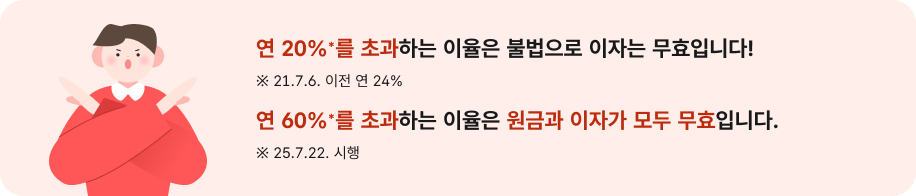
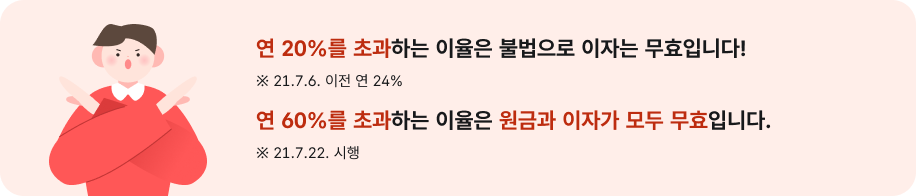
수정사항 반영

Changed region(s): [[0.3362, 0.551, 0.8559, 0.6735], [0.3362, 0.1837, 0.8253, 0.3061], [0.3057, 0.7653, 0.3362, 0.7959]]

diff --git a/html/상담안내_특례.html b/html/상담안내_특례.html
@@ -121,7 +121,7 @@
                         <div class="content-sections g-wrap call-wrap">
 
                             <div class="page-description bgBlue" style="flex-direction: row;flex-wrap: nowrap;">
-                                <p class="w-full" style="text-align: left;font-size: 19px;"><span class="fBlue">신용회복위원회는 과중한 채무와 신용문제로 고통받는 채무자의 신용회복과 경제적 재기를 지원합니다.</span><br>전국 50개 서민금융통합지원센터를 통하여 맞춤형 서비스를 편리하게 제공합니다.</p>
+                                <p class="w-full" style="text-align: left;font-size: 19px;"><span class="fBlue">신용회복위원회는 과중한 채무와 신용문제로 고통받는 채무자의 신용회복과 경제적 재기를 지원합니다.</span><br>전국 서민금융통합지원센터에서 맞춤형 서비스를 편리하게 제공합니다.</p>
                                 <a href="https://svc.onebite.tech/branchInfo.do" target="_blank" title="새창열림" style="font-size: 15px;line-height: 17px;" class="orange-link">센터위치 바로가기 <i class="icon-link-white"></i></a>
                             </div>
                             <div class="tab fill full mt30">

diff --git a/html/개인워크아웃(연체90일이상)_지원대상별특례_군복무자.html b/html/개인워크아웃(연체90일이상)_지원대상별특례_군복무자.html
@@ -135,7 +135,7 @@
                             <div class="summary-box">
                                 <h3 class="summary-tit">군복무자</h3>
                                 <div class="summary-link">
-                                    <p class="w-full"><b>90일 이상 연체된 군복무자(6개월 내 입대예정자 포함)는 전역 및 취업 시까지 상환유예를<br>할 수 있으며, 상환능력에 맞춰 원금을 감면받아 장기 분할상환할 수 있습니다.</b></p>
+                                    <p class="w-full"><b>90일 이상 연체된 군복무자(6개월 내 입대예정자 포함)는 전역 및 취업 시까지<br>상환유예를 할 수 있으며, 상환능력에 맞춰 원금을 감면받아 장기 분할상환할 수 있습니다.</b></p>
                                     <a href="#" class="youtube-btn-red" onclick="openYoutubeUrl('https://www.youtube.com/watch?v=d5cXqzKWnuM'); return false;" target="_blank" title="새창열림">개인워크아웃 알아보기 <i class="icon-youtube"></i></a>
                                 </div>
                                 <div class="summary-key">

diff --git a/html/불법사금융알아보기_불법고금리대부(일_월수 계산기).html b/html/불법사금융알아보기_불법고금리대부(일_월수 계산기).html
@@ -426,7 +426,7 @@
                                                     <div class="g-conts-area conts-desc roundcheck">
                                                         <ul class="krds-info-list decimal" role="list">
                                                             <li role="listitem">
-                                                                '25.7.22일부터 연이율이 60%를 초과하는 불법 대부계약은 원금과 이지가 전부 무효입니다.
+                                                                '25.7.22일부터 연이율이 60%를 초과하는 불법 대부계약은 원금과 이자가 전부 무효입니다.
                                                                 (대부업법 제8조의2)<br>
                                                                 불법사금융업자에게 원금과 이자를 지급할 의무가 없으며, 불법사금융업자는 지급받은 원금과 이자가 있으면
                                                                 이를 반환해야 합니다.

diff --git a/html/상담안내.html b/html/상담안내.html
@@ -123,8 +123,7 @@
                         <div class="content-sections g-wrap call-wrap">
 
                             <div class="page-description bgBlue" style="flex-wrap: nowrap;">
-                                <p class="w-full" style="">전국 50개 서민금융통합지원센터에서 <span class="fBlue">서민금융 유관기관의 서민금융
-                                        지원제도</span>를 연계해 드립니다.</p>
+                                <p class="w-full">전국 서민금융통합지원센터에서 <span class="fBlue">서민금융 유관기관의 지원제도</span>를 연계해 드립니다.</p>
                                 <a href="https://svc.onebite.tech/branchInfo.do" target="_blank" title="새창열림"
                                     style="font-size: 15px;line-height: 17px;" class="orange-link">센터위치 바로가기 <i
                                         class="icon-link-white"></i></a>
